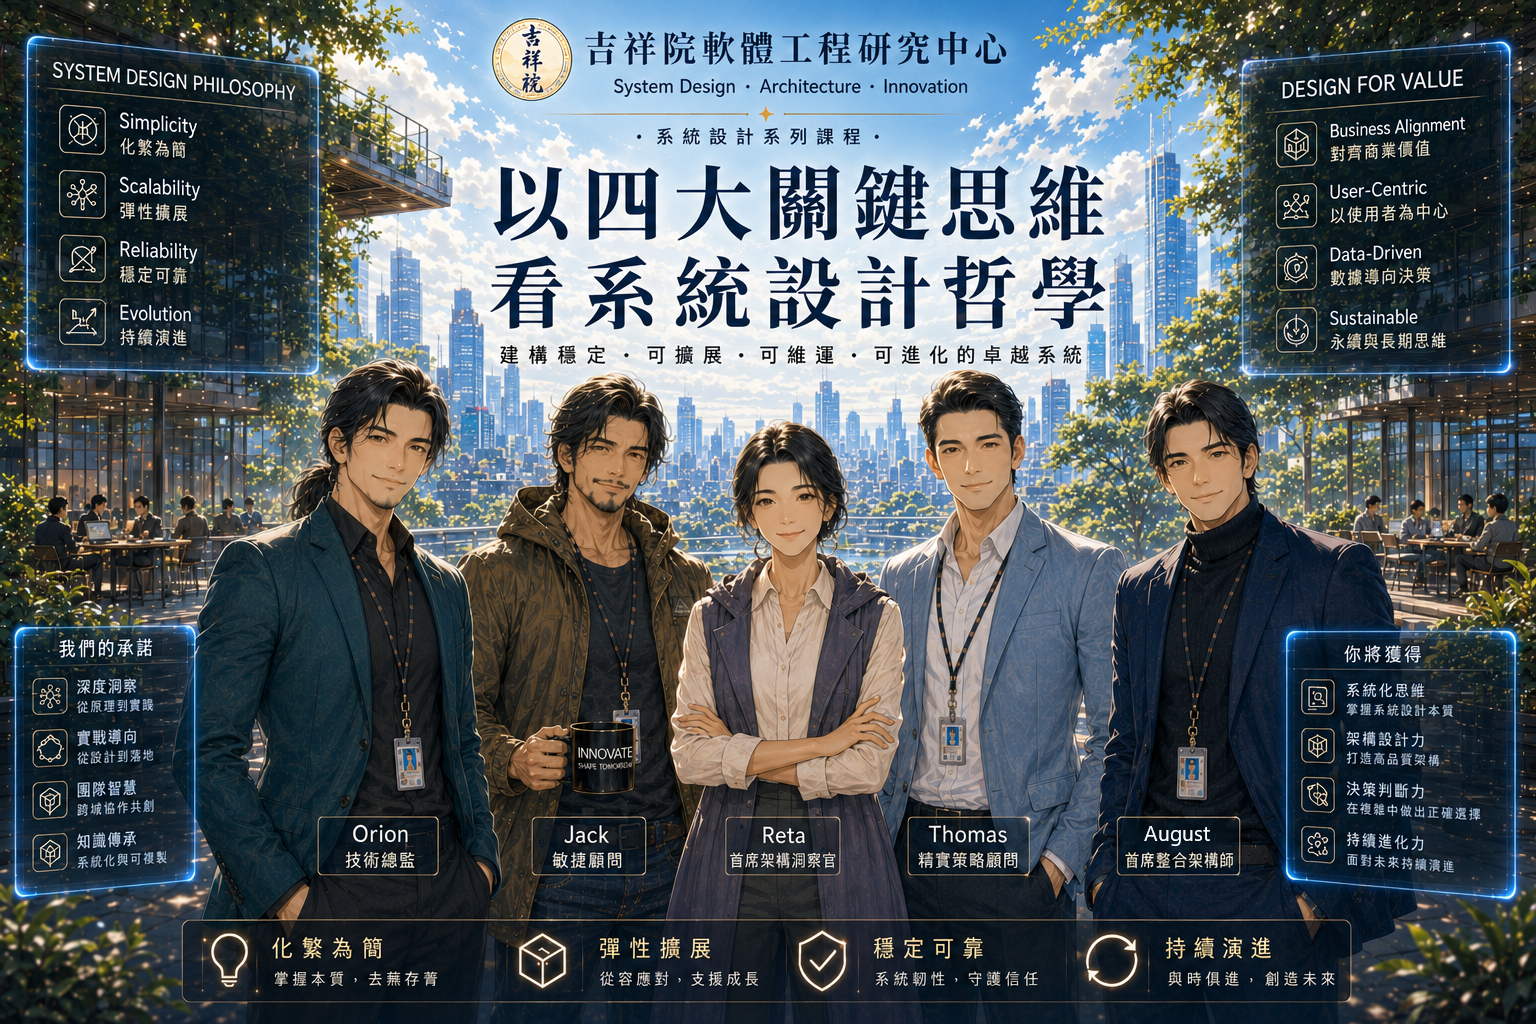
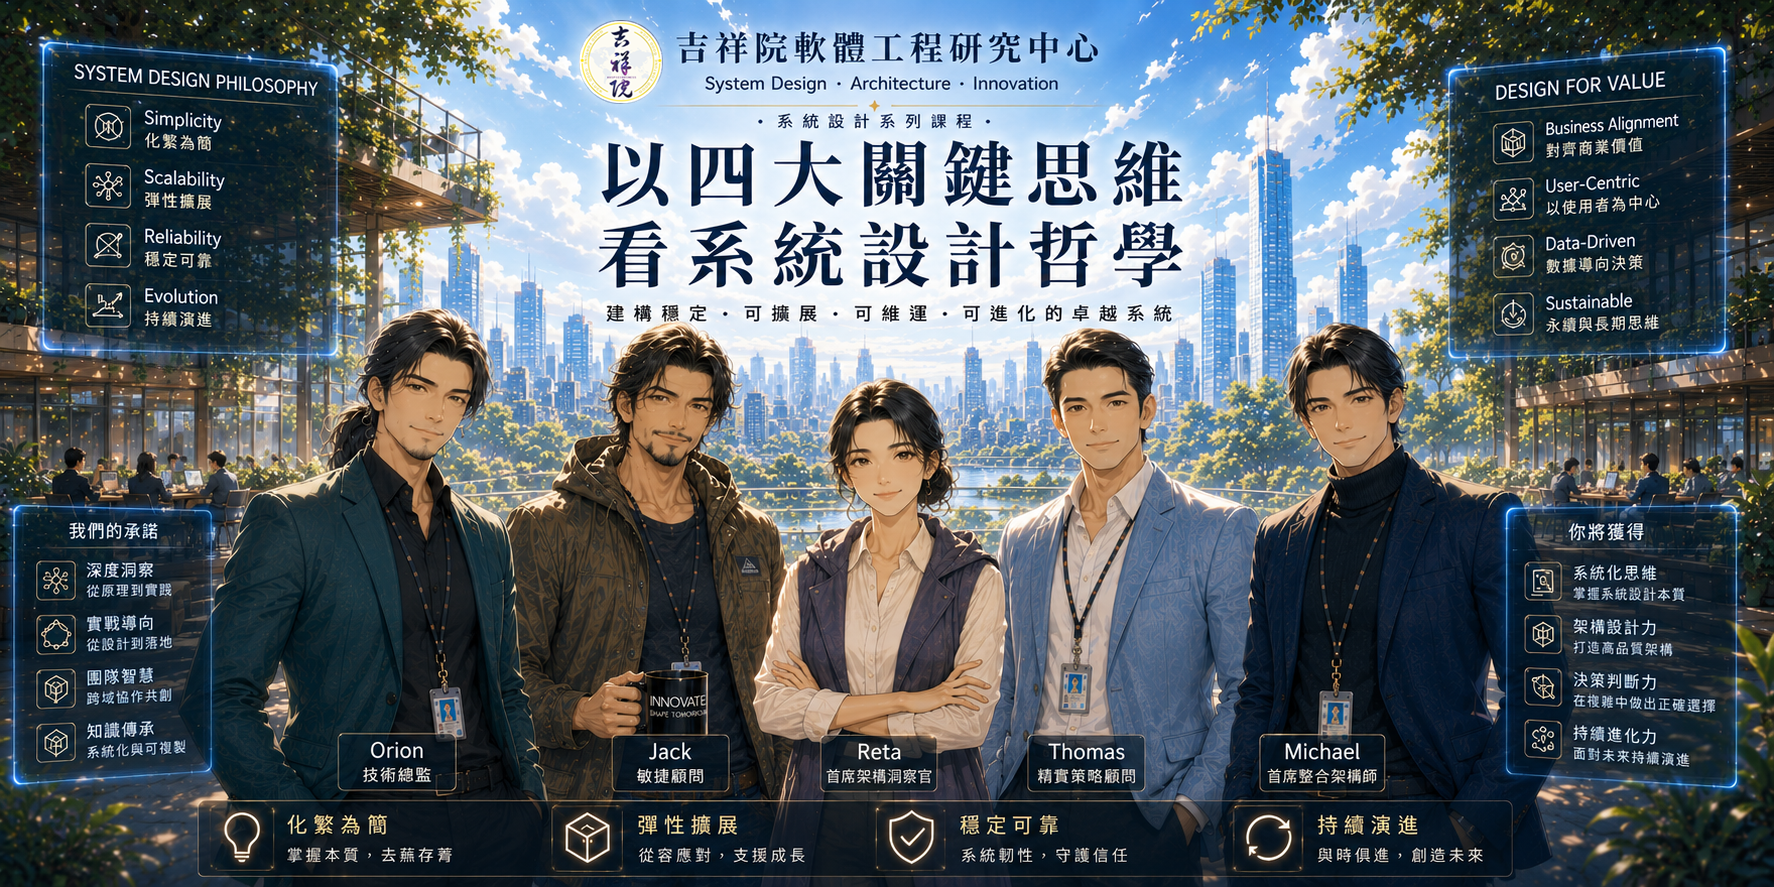
Update cover image and descriptions.

diff --git a/README.md b/README.md
@@ -8,7 +8,7 @@
 |:-----|:-------|
 | <a href="./AgileSoftwareEngineering/README.md" target="_blank"><image src="./AgileSoftwareEngineering/img/sw_cover.png" width="200"></a> | [Auspicious Software Engineering Research Center<br>吉祥院軟體工程研究中心](./AgileSoftwareEngineering/README.md)<br>Sharing knowledge in software engineering—covering process design, management techniques, CI/CD, agile practices, and various frameworks—to help you master the core essentials of development and management.<br>分享軟體工程相關知識，涵蓋流程設計、管理技術、CI/CD、敏捷方法與各種框架，帶你全面掌握開發與管理的核心要點。  <br> ☑ English ☑ Chinese  |
 | <a href="./Management/README.md" target="_blank"><image src="./Management/img/mgt_cover.png" width="200"></a> | [Auspicious Academy of Management<br>吉祥院管理學院](./Management/README.md)<br>Insights into software management, risk control, cybersecurity governance, and project management—helping you grasp the key principles of management and governance.<br>分享軟體管理、風險控管、資安治理與專案管理的知識與實務心得，帶你深入探索管理與治理的核心要點。<br> ☑ English ☑ Chinese  |
-| <a href="./Technology/README.md" target="_blank"><image src="./Technology/img/tech_cover.png" width="200"></a> | [Auspicious Science and Technology Research Laboratory<br>吉祥院科學與科技研究室](./Technology/READ.ME.md)<br>Insights into software management, risk control, cybersecurity governance, and project management—helping you grasp the key principles of management and governance.<br>分享軟體管理、風險控管、資安治理與專案管理的知識與實務心得，帶你深入探索管理與治理的核心要點。<br> ☑ English ☑ Chinese  |
+| <a href="./Technology/README.md" target="_blank"><image src="./Technology/img/tech_cover.png" width="200"></a> | [Auspicious Science and Technology Research Laboratory<br>吉祥院科學與科技研究室](./Technology/READ.ME.md)<br>Exploring science and technology through knowledge sharing, in-depth analysis, and thoughtful observations—guiding you to grasp cutting-edge insights and broaden your perspective.<br>探索科學與科技的知識分享、深入分析與觀察，帶你掌握前沿洞見，拓展思維視野。<br> ☑ English ☑ Chinese  |
 | <a href="./PersonalReflections/README.md" target="_blank"><image src="./PersonalReflections/img/life_cover.png" width="200"></a> | [吉祥院　日日好日　實踐所](./PersonalReflections/README.md) <br>分享生活哲學與人生心得，探索超越宗教束縛的觀點與思路，帶你開拓更自由的思維視野。<br>Sharing life philosophy and personal reflections, exploring perspectives and ideas that transcend religious constraints—inviting you to broaden your mind with greater freedom. <br> ☑ Chinese  |
 
 ---
